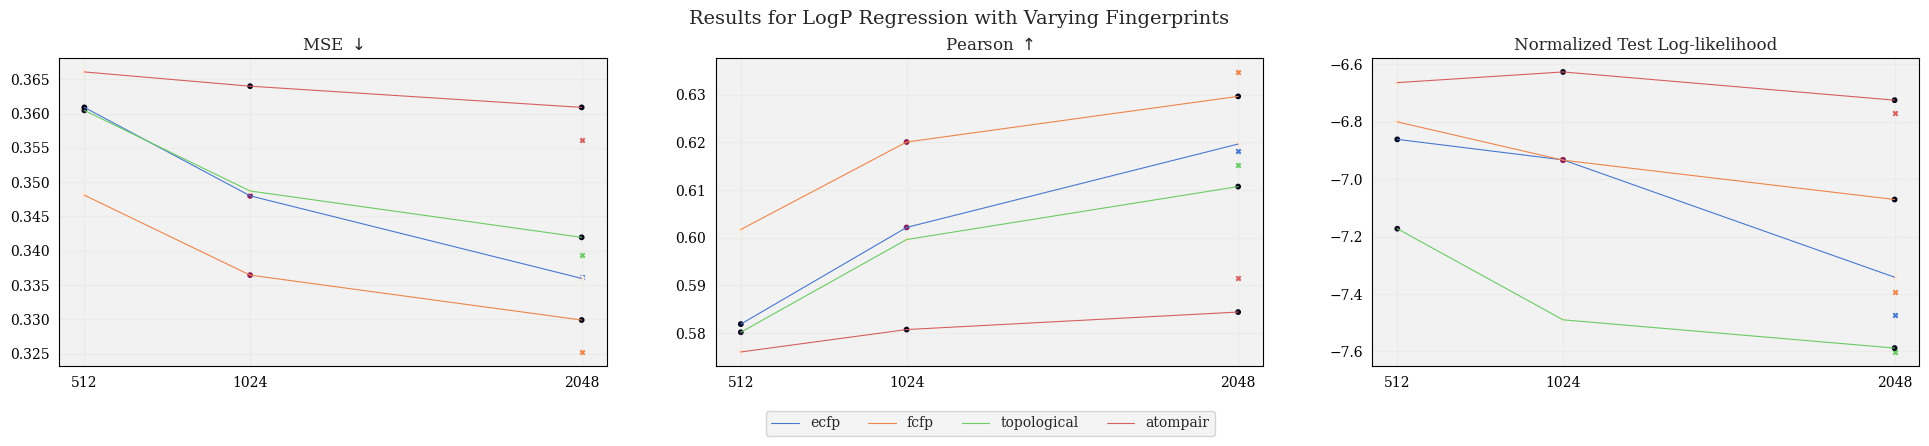
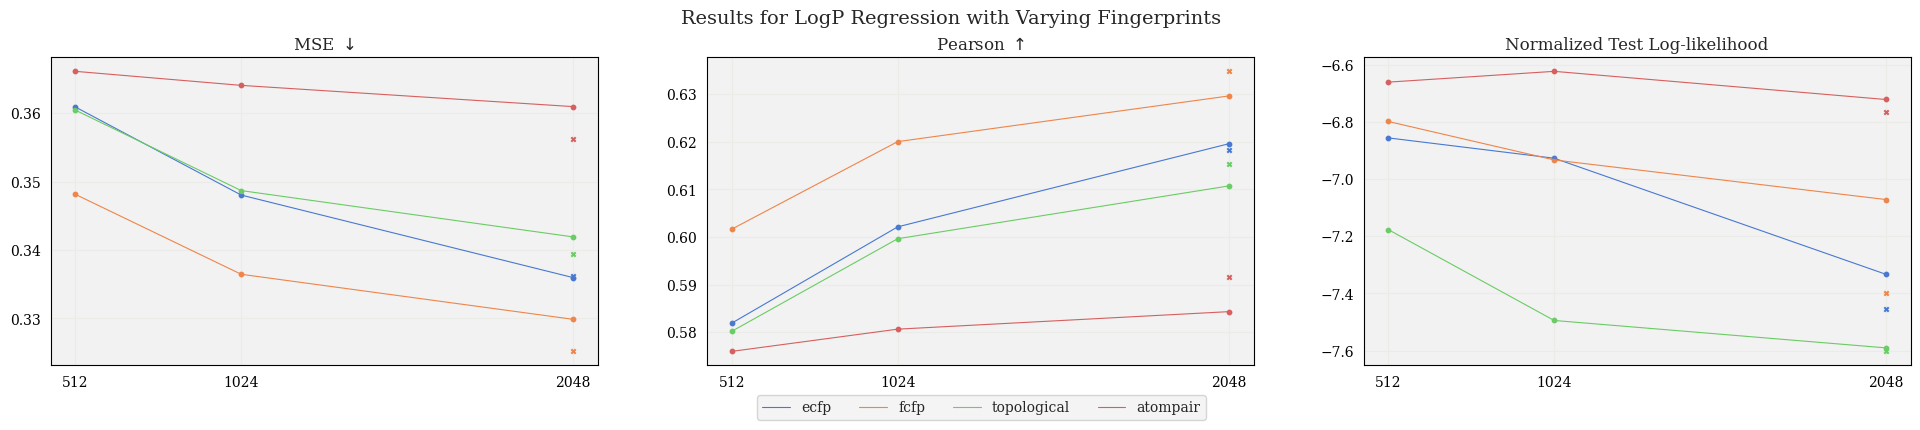
Minor changes

diff --git a/code/evaluate_fingerprints.py b/code/evaluate_fingerprints.py
@@ -62,7 +62,7 @@ def write_data(fps, sizes):
             results[key] = benchmark.evaluate(mean)
 
         key = fp + '-sparse'
-        mean, var, tll = evaluate_gp(smiles_train, y_train, smiles_test, fp_type=fp, radius=2, tol=1e-3)
+        mean, var, tll = evaluate_gp(smiles_train, y_train, smiles_test, fp_type=fp, radius=2, tol=1e-3, max_iters=10000)
 
         means[key], vars[key], tlls[key] = mean, var, tll
         results[key] = benchmark.evaluate(mean)
@@ -117,9 +117,9 @@ def plot(fps, sizes, data, savefig=False, filename=None):
 
     results, mses, pearsons, tlls = [data[key] for key in list(data.keys())[2:]]
 
-    fig, axes = plt.subplots(nrows=1, ncols=3, sharex=True, figsize=(20, 4))
+    fig, axes = plt.subplots(nrows=1, ncols=3, sharex=True, figsize=(24, 4))
 
-    fig.suptitle('Results for LogP Regression with Varying Fingerprints', y=.99, fontsize=14)
+    fig.suptitle('Results for LogP Regression with Varying Fingerprints', y=1, fontsize=14)
 
     for i, label in enumerate(fps):
         
@@ -159,11 +159,13 @@ def plot(fps, sizes, data, savefig=False, filename=None):
         axes[2].scatter(2048, tlls[label + '-sparse'] / 400, marker='x', s=10)
         axes[2].scatter(sizes, n_tll, marker='o', s=10, color=color)
 
-        axes[2].legend(loc='lower right', ncols=4, bbox_to_anchor=(-0.275, -0.25))
+        axes[2].legend(loc='lower right', ncols=4, bbox_to_anchor=(-.275, -.2))
 
-        if savefig:
-            PATH = '../figures/fp_comparison/' + filename
-            plt.savefig(PATH)
+    if savefig:
+        PATH = '../figures/fp_comparison/' + filename
+        plt.savefig(PATH, bbox_inches='tight')
+    else:
+        plt.show()
 
 
 def main(generate_data=False, make_plots=False, savefig=False, filename=None):

diff --git a/code/utils.py b/code/utils.py
@@ -125,7 +125,8 @@ def evaluate_gp(smiles_train,
                 sparse=True,
                 fpSize=2048,
                 radius=2,
-                tol=1e-3):
+                tol=1e-3,
+                max_iters=1000):
     """
     Evaluate GP performance with given dataset and fingerprint configurations
     """
@@ -134,7 +135,7 @@ def evaluate_gp(smiles_train,
 
     gp = tanimoto_gp.TanimotoGP(fp_func, smiles_train, y_train)
     gp_params = tanimoto_gp.TanimotoGP_Params(raw_amplitude=jnp.asarray(-1.0), raw_noise=jnp.asarray(1e-2))
-    gp_params = optimize_params(gp, gp_params, tol=tol)
+    gp_params = optimize_params(gp, gp_params, tol=tol, max_iters=1000)
 
     mean, var = gp.predict_y(gp_params, smiles_test, full_covar=True)
 

diff --git a/experiments.md b/experiments.md
@@ -15,6 +15,7 @@ Here we compared the performance of TanimotoGP with different fingerprints, spec
 
 Moreover, we varied the `radius` parameter (only applicable for `ecfp` and `fcfp` fingerprint types), with the hypothesis that a larger radius would lead to more hash collisions, and thus there would be an increased gap in performance as we increased the size of the fingerprints.
 
+
 ### Experiment #1, initial fingerprint comparison (parameters: `radius=2`):
 
 * Complete fingerprint comparison, showing MSE, Pearson, and TLL:
@@ -45,16 +46,13 @@ We can see that the increased number of hash collisions decreases performance fo
 To run this experiment:
 
 ```py
-python3 evaluations.py --generate_data --make_plots --save_fig --filename '1e-3/fingerprint_comparison'
+python3 evaluate_fingerprints.py --generate_data --make_plots --savefig --filename '1e-3/fingerprint_comparison'
 ```
 with parameters:
 * `tol = 1e-3`
 * `fps = ['ecfp', 'fcfp', 'topological', 'atompair']`
 * `sizes = [512, 1024, 2048]`
 * `radius = 2`
-
-
-* Re-ran the fingerprint comparison with radius $=4$ and `tol=1e-3` as well:
 
 
 ### Experiment #4 (parameters: `radius=4`, `tol=1e-3`):
@@ -68,7 +66,7 @@ Interestingly, we don't see the same trend as we saw in experiment #2. I wonder 
 To run this experiment:
 
 ```py
-python3 evaluations.py --generate_data --make_plots --save_fig --filename '1e-3/fp_comparison_r4_1e-3'
+python3 evaluate_fingerprints.py --generate_data --make_plots --savefig --filename '1e-3/fp_comparison_r4_1e-3'
 ```
 with parameters:
 * `tol = 1e-3`

diff --git a/README.md b/README.md
@@ -10,10 +10,11 @@ For details on experiments, see [experiments.md](./experiments.md)
 ### Next Steps:
 
 
-### Questions
+### Thoughts:
 
 * Should we include 4096 fingerprint size in the experiment? I am ommitting 256
 * Should we be using consistent GP params?
+* I'm noticing the TLL doesn't improve when optimizing the hyperparameters with a tolerance of `tol=1e-3`. I'm curious to know if the optimization is reaching convergence in this setting.
 
 # Jan 15
 
